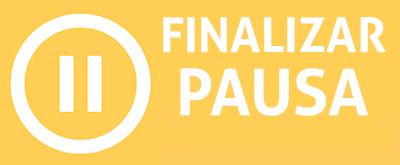
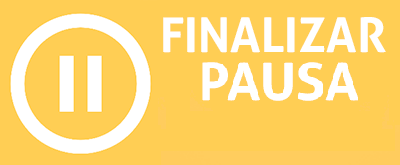
Cambios botón pausa

Changed region(s): [[0.45, 0.3636, 0.93, 0.7273]]

diff --git a/src/pages/FichajesPage.jsx b/src/pages/FichajesPage.jsx
@@ -365,10 +365,10 @@ const FichajesPage = ({ onValidCard, userData}) => {
                         boxShadow: '0 4px 16px #0002',
                         color: 'white',
                         fontWeight: 700,
-                        fontSize: 23,
+                        fontSize: 43,
                         
                 }}>
-                    <span style={{opacity: '80%', marginLeft : 150, marginBottom: 5
+                    <span style={{opacity: '80%', marginLeft : 160, marginBottom: 0
                     }}> {pauseState === 'processing' ? useRealTimePause(userData.data.pause) : ''}</span>
                     
                 </div>
